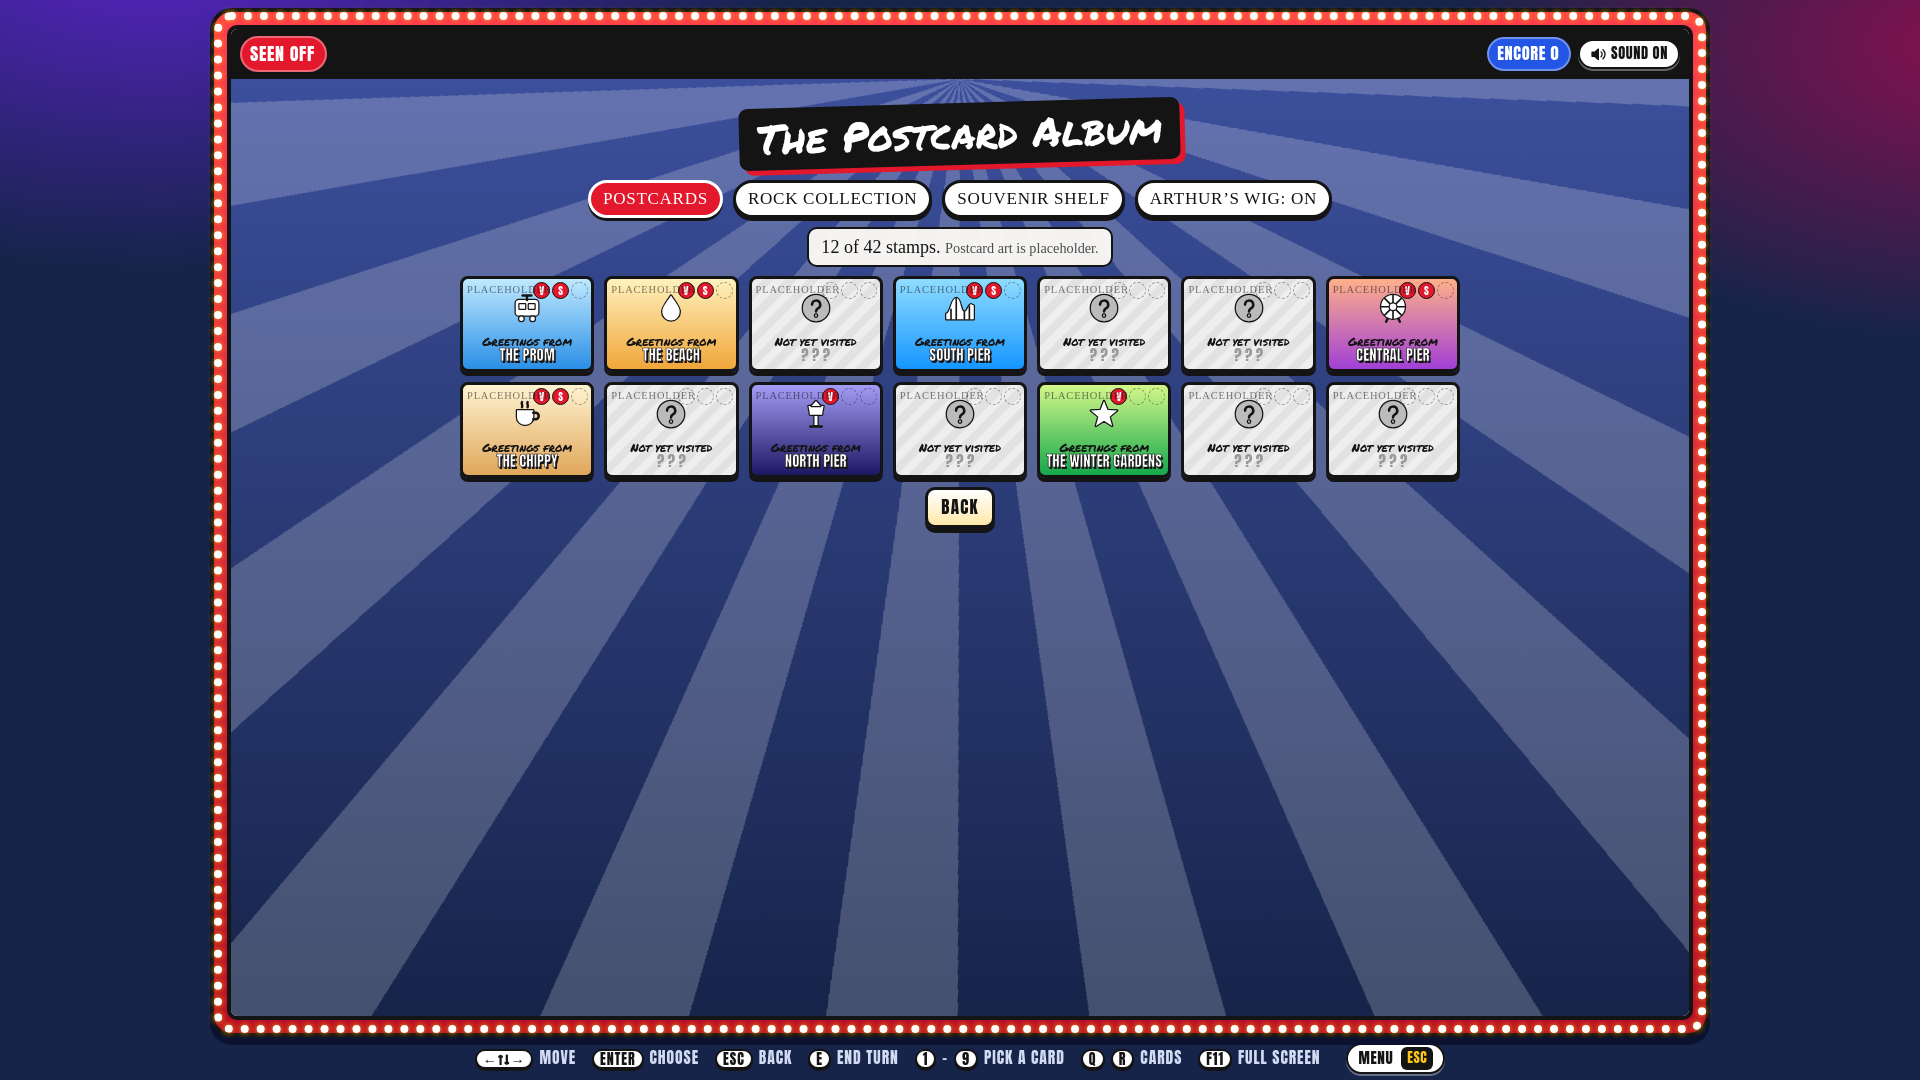
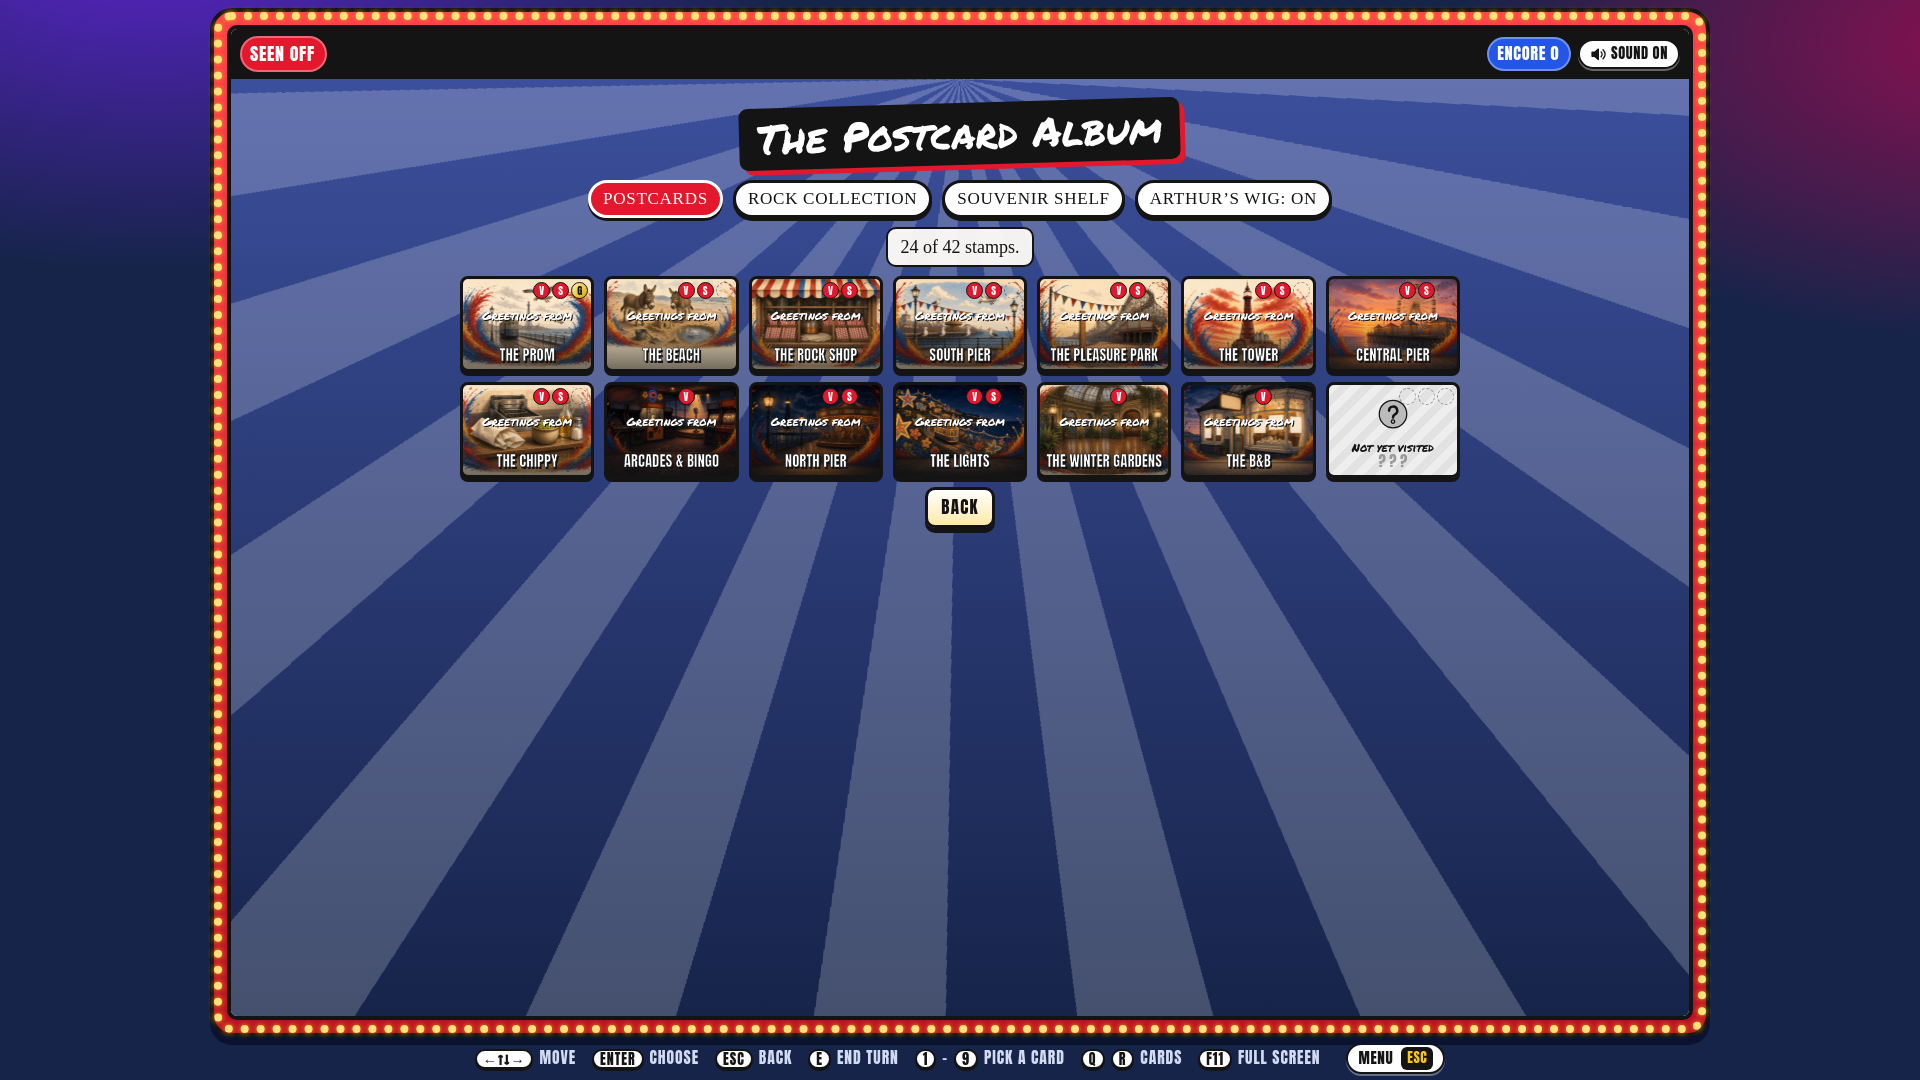
Painted postcard fronts for all fourteen places.
The album no longer uses CSS placeholders. Each place has a wordless
painted 3:2 front in web/postcards/, with "Greetings from" and the
place name overlaid as real HTML text. Unvisited cards stay blank.
Art is pre-generated AI, logged in the README and THIRD_PARTY_NOTICES.
Store screenshot 09 was retaken. tests/verify.js: 258/258.

diff --git a/desktop/seen-off/web/index.html b/desktop/seen-off/web/index.html
@@ -781,7 +781,7 @@ function stageHTML(){
 }
 function postcardHTML(id){
   var s=STAGES[id],a=DAY.album[id]||{},v=!!a.v;
-  return '<div class="pcard'+(v?'':' blank')+'" style="--c1:'+s.c1+';--c2:'+s.c2+'"><span class="pc-art">'+ic(v?s.ic:'what')+'</span><i>'+(v?'Greetings from':'Not yet visited')+'</i><b>'+(v?s.n:'? ? ?')+'</b>'+
+  return '<div class="pcard'+(v?' painted':' blank')+'" style="--c1:'+s.c1+';--c2:'+s.c2+(v?';--pc:url(postcards/'+id+'.jpg)':'')+'">'+(v?'':'<span class="pc-art">'+ic('what')+'</span>')+'<i>'+(v?'Greetings from':'Not yet visited')+'</i><b>'+(v?s.n:'? ? ?')+'</b>'+
     '<span class="pc-st"><em class="'+(a.v?'on':'')+'" title="Visited">V</em><em class="'+(a.s?'on':'')+'" title="Seen off">S</em><em class="g'+(a.g?' on':'')+'" title="Gold foil: seen off on Encore 3 or higher">G</em></span></div>';
 }
 var SHELFX={fudge:['Bag of Fudge','Whatever you had left.']};
@@ -791,7 +791,7 @@ function albumHTML(){
   if(stickGot('hat','wig'))h+='<button type="button" class="chip" data-a="wig" aria-pressed="'+wigOn()+'">Arthur’s wig: '+(wigOn()?'on':'off')+'</button>';
   h+='</div>';
   if(t==='cards'){var n=0;Object.keys(DAY.album).forEach(function(k){var a=DAY.album[k];n+=(a.v?1:0)+(a.s?1:0)+(a.g?1:0);});
-    h+='<p>'+n+' of 42 stamps. <small class="ph">Postcard art is placeholder.</small></p><div class="pgrid">';
+    h+='<p>'+n+' of 42 stamps.</p><div class="pgrid">';
     PARTS.forEach(function(P){P.stages.forEach(function(id){h+=postcardHTML(id);});});h+='</div>';}
   else if(t==='rock'){h+='<p>'+DAY.sticks+' of '+STICKS.length+' sticks pulled. Every point you score goes into the next one.</p>'+rockHTML('sm')+'<div class="rgrid">';
     STICKS.forEach(function(s,k){h+='<span class="rstick'+(k<DAY.sticks?' on':'')+'" title="'+(k<DAY.sticks?stickName(k):'Not pulled yet')+'"><b>'+(k<DAY.sticks?s[3]:'#'+(k+1))+'</b></span>';});h+='</div>';}

diff --git a/desktop/seen-off/web/dayout.css b/desktop/seen-off/web/dayout.css
@@ -54,11 +54,12 @@
 .pgrid{display:grid;grid-template-columns:repeat(7,minmax(0,1fr));gap:10px;width:100%;max-width:1000px}
 .pcard{position:relative;aspect-ratio:3/2;border:3px solid var(--ink);border-radius:8px;overflow:hidden;display:grid;grid-template-rows:1fr auto auto;justify-items:center;align-items:center;padding:4px 4px 6px;
   background:linear-gradient(180deg,var(--c1),var(--c2));box-shadow:0 4px 0 var(--ink);color:var(--ink)}
-.pcard::after{content:'placeholder';position:absolute;left:4px;top:3px;font-size:.55rem;letter-spacing:.08em;text-transform:uppercase;opacity:.55}
+.pcard.painted{background-color:var(--c2);background-image:linear-gradient(180deg,rgba(20,20,20,0) 48%,rgba(20,20,20,.58) 100%),var(--pc);background-size:cover,cover;background-position:center,center;color:#fff}
+.pcard.painted i{color:#fff;text-shadow:1px 1px 0 var(--ink)}
 .pcard .pc-art .ic{width:30px;height:30px;color:#fff}
 .pcard i{font-family:var(--marker);font-style:normal;font-size:.62rem;line-height:1}
 .pcard b{font-family:var(--display);font-weight:400;text-transform:uppercase;font-size:.78rem;line-height:1.05;text-align:center;color:#fff;-webkit-text-stroke:.6px var(--ink);text-shadow:1.5px 1.5px 0 var(--ink)}
-.pcard .pc-st{position:absolute;right:3px;top:3px;display:flex;gap:2px}
+.pcard .pc-st{position:absolute;right:3px;top:3px;display:flex;gap:2px;z-index:2}
 .pcard .pc-st em{font-style:normal;font-family:var(--display);font-size:.55rem;width:15px;height:15px;display:grid;place-items:center;border-radius:50%;border:1.5px dashed rgba(20,20,20,.4);color:transparent}
 .pcard .pc-st em.on{border:1.5px solid var(--ink);background:#e3182d;color:#fff}
 .pcard .pc-st em.g.on{background:linear-gradient(135deg,#fff3a8,#d6a400);color:var(--ink)}

diff --git a/desktop/seen-off/README.md b/desktop/seen-off/README.md
@@ -21,6 +21,7 @@ Steamworks is **not** integrated yet (no sign-ups, no app ID). There is a clean 
 | `tools/strip_original.py` | The old bundle step (strips network + chrome from the original). Now only writes `tools/stripped-baseline.html`, the fork's starting point |
 | `web/index.html` | **The game (hand-maintained fork).** The day-out block is marked `/* a day out (desktop, milestone 1) */` |
 | `web/dayout.css` | Styles for the day-out screens: stage picker, stamp, combo, postcards, report, rock meter, souvenir shop |
+| `web/postcards/` | Painted postcard fronts for the fourteen places (3:2 JPEGs). Visited album cards use these; titles are HTML text |
 | `web/desktop.css` | Desktop layout (full window, 1280x800 + 1920x1080), menu, focus ring, control hints |
 | `web/desktop.js` | Menu, fullscreen, keyboard + gamepad navigation, canvas fitting, achievement wiring |
 | `web/achievements.js` | `SeenOffAchievements.unlock(id)` stub (localStorage + event) for the Steam hook |
@@ -61,9 +62,10 @@ Saves: `so-day-v1` (rock, album, shelf, streak), alongside the game's `stp-v1` /
 by way of the Cloud"; **Spyro now matches his photos** (pure white, ginger ringed tail, a tiny ginger smudge on the forehead: the website's
 drawing had a white tail and a large off-centre patch, the website file itself is untouched).
 
-**Placeholder (M1 items, status after M2):** the Prom enemies now have real drawings (M2); the postcard art is still CSS cards marked
-"placeholder"; the place icons are still simple ink icons; the Last Tram was retuned in M2 (see below); Arthur's wig, the new Quill cards
-and the Daily Run now work (M2). The cat signature-card mockups are wired in (M2, see below).
+**Placeholder (M1 items, status after the 28 Nov 2026 postcard pass):** the Prom enemies now have real drawings (M2); the fourteen
+postcard fronts are painted (`web/postcards/`, 28 Nov 2026) with "Greetings from" and the place name as real HTML text; the place icons
+are still simple ink icons; the Last Tram was retuned in M2 (see below); Arthur's wig, the new Quill cards and the Daily Run now work
+(M2). The cat signature-card mockups are wired in (M2, see below).
 
 ## A Blackpool Day Out: Milestone 2 (six places, unlocks, polish)
 
@@ -93,7 +95,7 @@ with its name on it (`ART.standee`; replaced by real drawings in M3, see below),
    a made-up presenter, not anyone real).
 2. Six place backdrops (or overlays for the existing pier backdrops) to replace the prop sketches.
 3. Card art for the 12 new Quill cards, and card-art crops for the other cards if the mockup style becomes the standard.
-4. The postcard fronts (still CSS placeholders from M1) and the place icons.
+4. The postcard fronts are done (28 Nov 2026, `web/postcards/`). The place icons are still simple ink icons.
 
 **Art credit / disclosure:** `web/cats/*.jpg` are crops of the card mockups supplied in `../mockups/`. If those mockups were made with
 AI image tools, they must be declared in Steam's Content Survey (see the Content Survey notes in `content-plan.md`). Nothing else in M2 is an image file.
@@ -383,9 +385,14 @@ crops in `web/cards/` (`junk`, `sock`, `ticket`, `wblock`, `photo`, `catchp`).
 - `web/cards/handout.jpg`: AI-generated (28 Nov 2026) prop still-life in our card style (blank conference leaflets, no heroes, people, lettering or money). One generation, no retry. Screenshots: `shots/d6-05-handout.jpg`, `shots/d6-05-handout-card.png`, `shots/d6-05-handout-hand.png`.
 - `web/cards/nohot.jpg`, `groan.jpg`, `condemned.jpg`, `wetsand.jpg`: AI-generated (28 Nov 2026) prop still-lifes in our card style (No Hot Food in Rooms, Groan, Condemned, Wet Sand; no heroes, people, lettering or money). One generation each, no retry. Screenshots: `shots/d8-01-*.jpg`, `shots/d8-02-clutter-hand.png`, `shots/d8-02-clutter-cards.png`.
 - `web/cards/bankrupt.jpg`, `magnum.jpg`, `cloud.jpg`: AI-generated (28 Nov 2026) from the three heroes' portraits and our card style (Bankrupt, Magnum Opus, The Cloud Provides). One generation each, no retry. Wordless papers and cards; no money. Screenshots: `shots/d9-01-*.jpg`, `shots/d9-02-legend-hand.png`.
+- `web/postcards/prom.jpg`, `beach.jpg`, `rock.jpg`, `south.jpg`, `park.jpg`, `tower.jpg`, `central.jpg`, `chippy.jpg`, `arcades.jpg`, `north.jpg`, `lights.jpg`, `winter.jpg`, `bnb.jpg`, `oldpier.jpg`: AI-generated (28 Nov 2026) painted postcard fronts in our card style, one per place. Wordless paintings (no titles, signs, ride names or trade marks); "Greetings from" and the place name are real HTML/CSS text in the album. One generation each; park, arcades, South Pier and North Pier each had one retry (garbled lettering or tiny background figures). South Pier mid-ground figures on the retry were further softened by hand and logged. No people in the other thirteen. The Tower and North Pier lanterns are blank or a plain glow, with no lettering.
 - `web/cats/*.jpg` (all six cat signature cards): crops of the cat card mockups in `../mockups/card-*.jpg`, which **were AI-generated**
   (from the cats' real photos). Declare them as pre-generated AI content.
 - The full-size sources of all of the above in `../mockups/`.
+
+### Postcard fronts (28 Nov 2026)
+
+The Postcard Album no longer uses CSS gradient placeholders. Each of the fourteen places has a painted 3:2 front in `web/postcards/{id}.jpg`. Unvisited cards stay striped and say "Not yet visited". Visited cards show the painting, with **Greetings from** and the place name (`The Prom`, `The Tower`, `The Lights`, `The Pleasure Park`, and so on) overlaid as real HTML text in Anton / Permanent Marker, never as letters in the painting. Signs, rock, trams, machines and hanging boards in the paintings are blank. No real attraction branding.
 
 ### Legendary cards (28 Nov 2026)
 

diff --git a/desktop/seen-off/store/STORE_PAGE_DRAFT.md b/desktop/seen-off/store/STORE_PAGE_DRAFT.md
@@ -101,7 +101,7 @@ Suggested store-feature lines (short, built, honest):
 - A Daily Run with a Daily Rule, the same for everyone that day
 - Keyboard and controller, laid out for the Steam Deck, and it plays offline
 
-**Do not claim on the page (not built, or not true yet):** the Ferret as a playable Quill; Steam achievements (eight local stubs exist, not hooked up to Steamworks); Steam leaderboards; Encore 6-10; a Mac build; "Deck Verified" (not yet tested on a real Deck); finished postcard-front art (the album still says the fronts are placeholders).
+**Do not claim on the page (not built, or not true yet):** the Ferret as a playable Quill; Steam achievements (eight local stubs exist, not hooked up to Steamworks); Steam leaderboards; Encore 6-10; a Mac build; "Deck Verified" (not yet tested on a real Deck).
 
 **Counts, from the code, 28 Nov 2026:** 87 cards (`C()` in `web/index.html`: 9 starter, 27 common, 20 uncommon, 10 rare, 3 legendary, 18 uncollectable / clutter / familiar). 3 Quills and 6 cats. 14 places in `STAGES`. 94 enemy kinds in `EN` (including summoned backbenchers and the King of the Seagulls, Returned). 21 keepsakes in `RELICS`. 8 brews in `BREWS`. Encore 0-5. The Daily Run is in; mid-fight draws after turn 1 are not date-seeded.
 
@@ -204,7 +204,7 @@ If store capsules or a trailer later use AI images, add "and some store artwork"
 
 ## 7. Store screenshots (1920x1080, real gameplay)
 
-Captured 28 Nov 2026 from the current desktop `web/` build (the same content as the m3c AppImage) at 1920x1080. They live in `store/screenshots/`. They are real game UI, not mockups. Hands and fights were posed so a useful set of painted cards is on screen; the screens themselves are the live game. Achievement toasts were pre-cleared so they do not cover the art. The postcard album shot uses a few stamps filled in so the page is readable; its fronts are still the in-game placeholders.
+Captured 28 Nov 2026 from the current desktop `web/` build (the same content as the m3c AppImage) at 1920x1080. They live in `store/screenshots/`. They are real game UI, not mockups. Hands and fights were posed so a useful set of painted cards is on screen; the screens themselves are the live game. Achievement toasts were pre-cleared so they do not cover the art. The postcard album shot uses a few stamps filled in so the page is readable; the fronts are the painted 28 Nov 2026 art, with titles as real HTML text.
 
 Steam wants at least five. Mark at least four as suitable for all ages (all ten here are). No OS chrome, no "Blackpool Tower" caption, no Pleasure Beach, no real-brand logos.
 
@@ -218,15 +218,15 @@ Steam wants at least five. Mark at least four as suitable for all ages (all ten 
 | 4 | `02-cat-picker.png` | "Three cats have noticed you" | Yes |
 | 5 | `08-card-reward.png` | Card reward: three painted cards with the NEW! stamp, after a fight is seen off | Yes |
 | 6 | `07-winter-keynote.png` | The Winter Gardens, Kenneth, the Keynote Speaker, and The Cloud Provides in the hand | Yes |
-| 7 | `04-morning-places.png` | Morning, 9am: the Prom, the Beach and the Rock Shop, once those places are open | Yes |
-| 8 | `10-bnb-landlady.png` | Last orders at the B&B. The Landlady, a "NO VACANCIES" sign, Bankrupt in the hand | Yes |
+| 7 | `09-postcard-album.png` | The Postcard Album, with painted fronts and HTML titles | Yes |
+| 8 | `04-morning-places.png` | Morning, 9am: the Prom, the Beach and the Rock Shop, once those places are open | Yes |
+| 9 | `10-bnb-landlady.png` | Last orders at the B&B. The Landlady, a "NO VACANCIES" sign, Bankrupt in the hand | Yes |
 
 **Also taken, use with care:**
 
 | File | Note |
 |---|---|
 | `03-morning-first-day.png` | The first-run picker, with the Beach and the Rock Shop still locked. Honest, but less of a "day out" hook than `04`. |
-| `09-postcard-album.png` | The real album UI. The game itself labels the fronts as placeholders. Better held back until postcard art exists, or used only if we want to be early and honest. |
 
 **Still worth taking later:** a combo / "SEEN OFF!" stamp mid-fight; the Day Out Report; the Daily Run rule on the title screen; a Lights fight (the background may show a tower silhouette: do not caption it with a trade mark); the controller glyphs at 1280x800, recaptured at 1920x1080 if Valve want a Deck-like shot.
 

diff --git a/desktop/seen-off/THIRD_PARTY_NOTICES.md b/desktop/seen-off/THIRD_PARTY_NOTICES.md
@@ -1,9 +1,9 @@
 # Seen Off: third-party notices
 
 Everything in the game (art, music, sound, text) is drawn or generated in code by William George Works,
-except the bundled fonts below and the painted card art: Reggie's, Terry's and Kenneth's starter-, common-, uncommon-, rare-, unlock- and legendary-card art and the shared/clutter card images in `web/cards/` including Handout, No Hot Food in Rooms, Groan, Condemned and Wet Sand (AI-generated
-pre-release, the hero cards from their portraits, the shared cards as prop still-lifes with no people; Bankrupt, Magnum Opus and The Cloud Provides 28 Nov 2026, the four new clutter cards and Handout 28 Nov 2026, previous shared batch 27 Nov 2026; Kenneth's redone 24 Nov 2026 from the portrait Ben supplied) and the six cat card images in `web/cats/` (crops of the cat card mockups in `mockups/`, also AI-generated from the
-cats' real photos). All of it is pre-generated AI content and must be declared in Steam's Content Survey:
+except the bundled fonts below, the painted card art, and the fourteen painted postcard fronts in `web/postcards/`. The card art is Reggie's, Terry's and Kenneth's starter-, common-, uncommon-, rare-, unlock- and legendary-card art and the shared/clutter card images in `web/cards/` including Handout, No Hot Food in Rooms, Groan, Condemned and Wet Sand (AI-generated
+pre-release, the hero cards from their portraits, the shared cards as prop still-lifes with no people; Bankrupt, Magnum Opus and The Cloud Provides 28 Nov 2026, the four new clutter cards and Handout 28 Nov 2026, previous shared batch 27 Nov 2026; Kenneth's redone 24 Nov 2026 from the portrait Ben supplied). The six cat card images in `web/cats/` are crops of the cat card mockups in `mockups/`, also AI-generated from the
+cats' real photos. The postcard fronts (`web/postcards/*.jpg`, one per place, 28 Nov 2026) are AI-generated paintings in the same style; titles are real HTML text, not letters in the image. All of it is pre-generated AI content and must be declared in Steam's Content Survey:
 
 | Font | Files | Licence | Copyright |
 |---|---|---|---|
